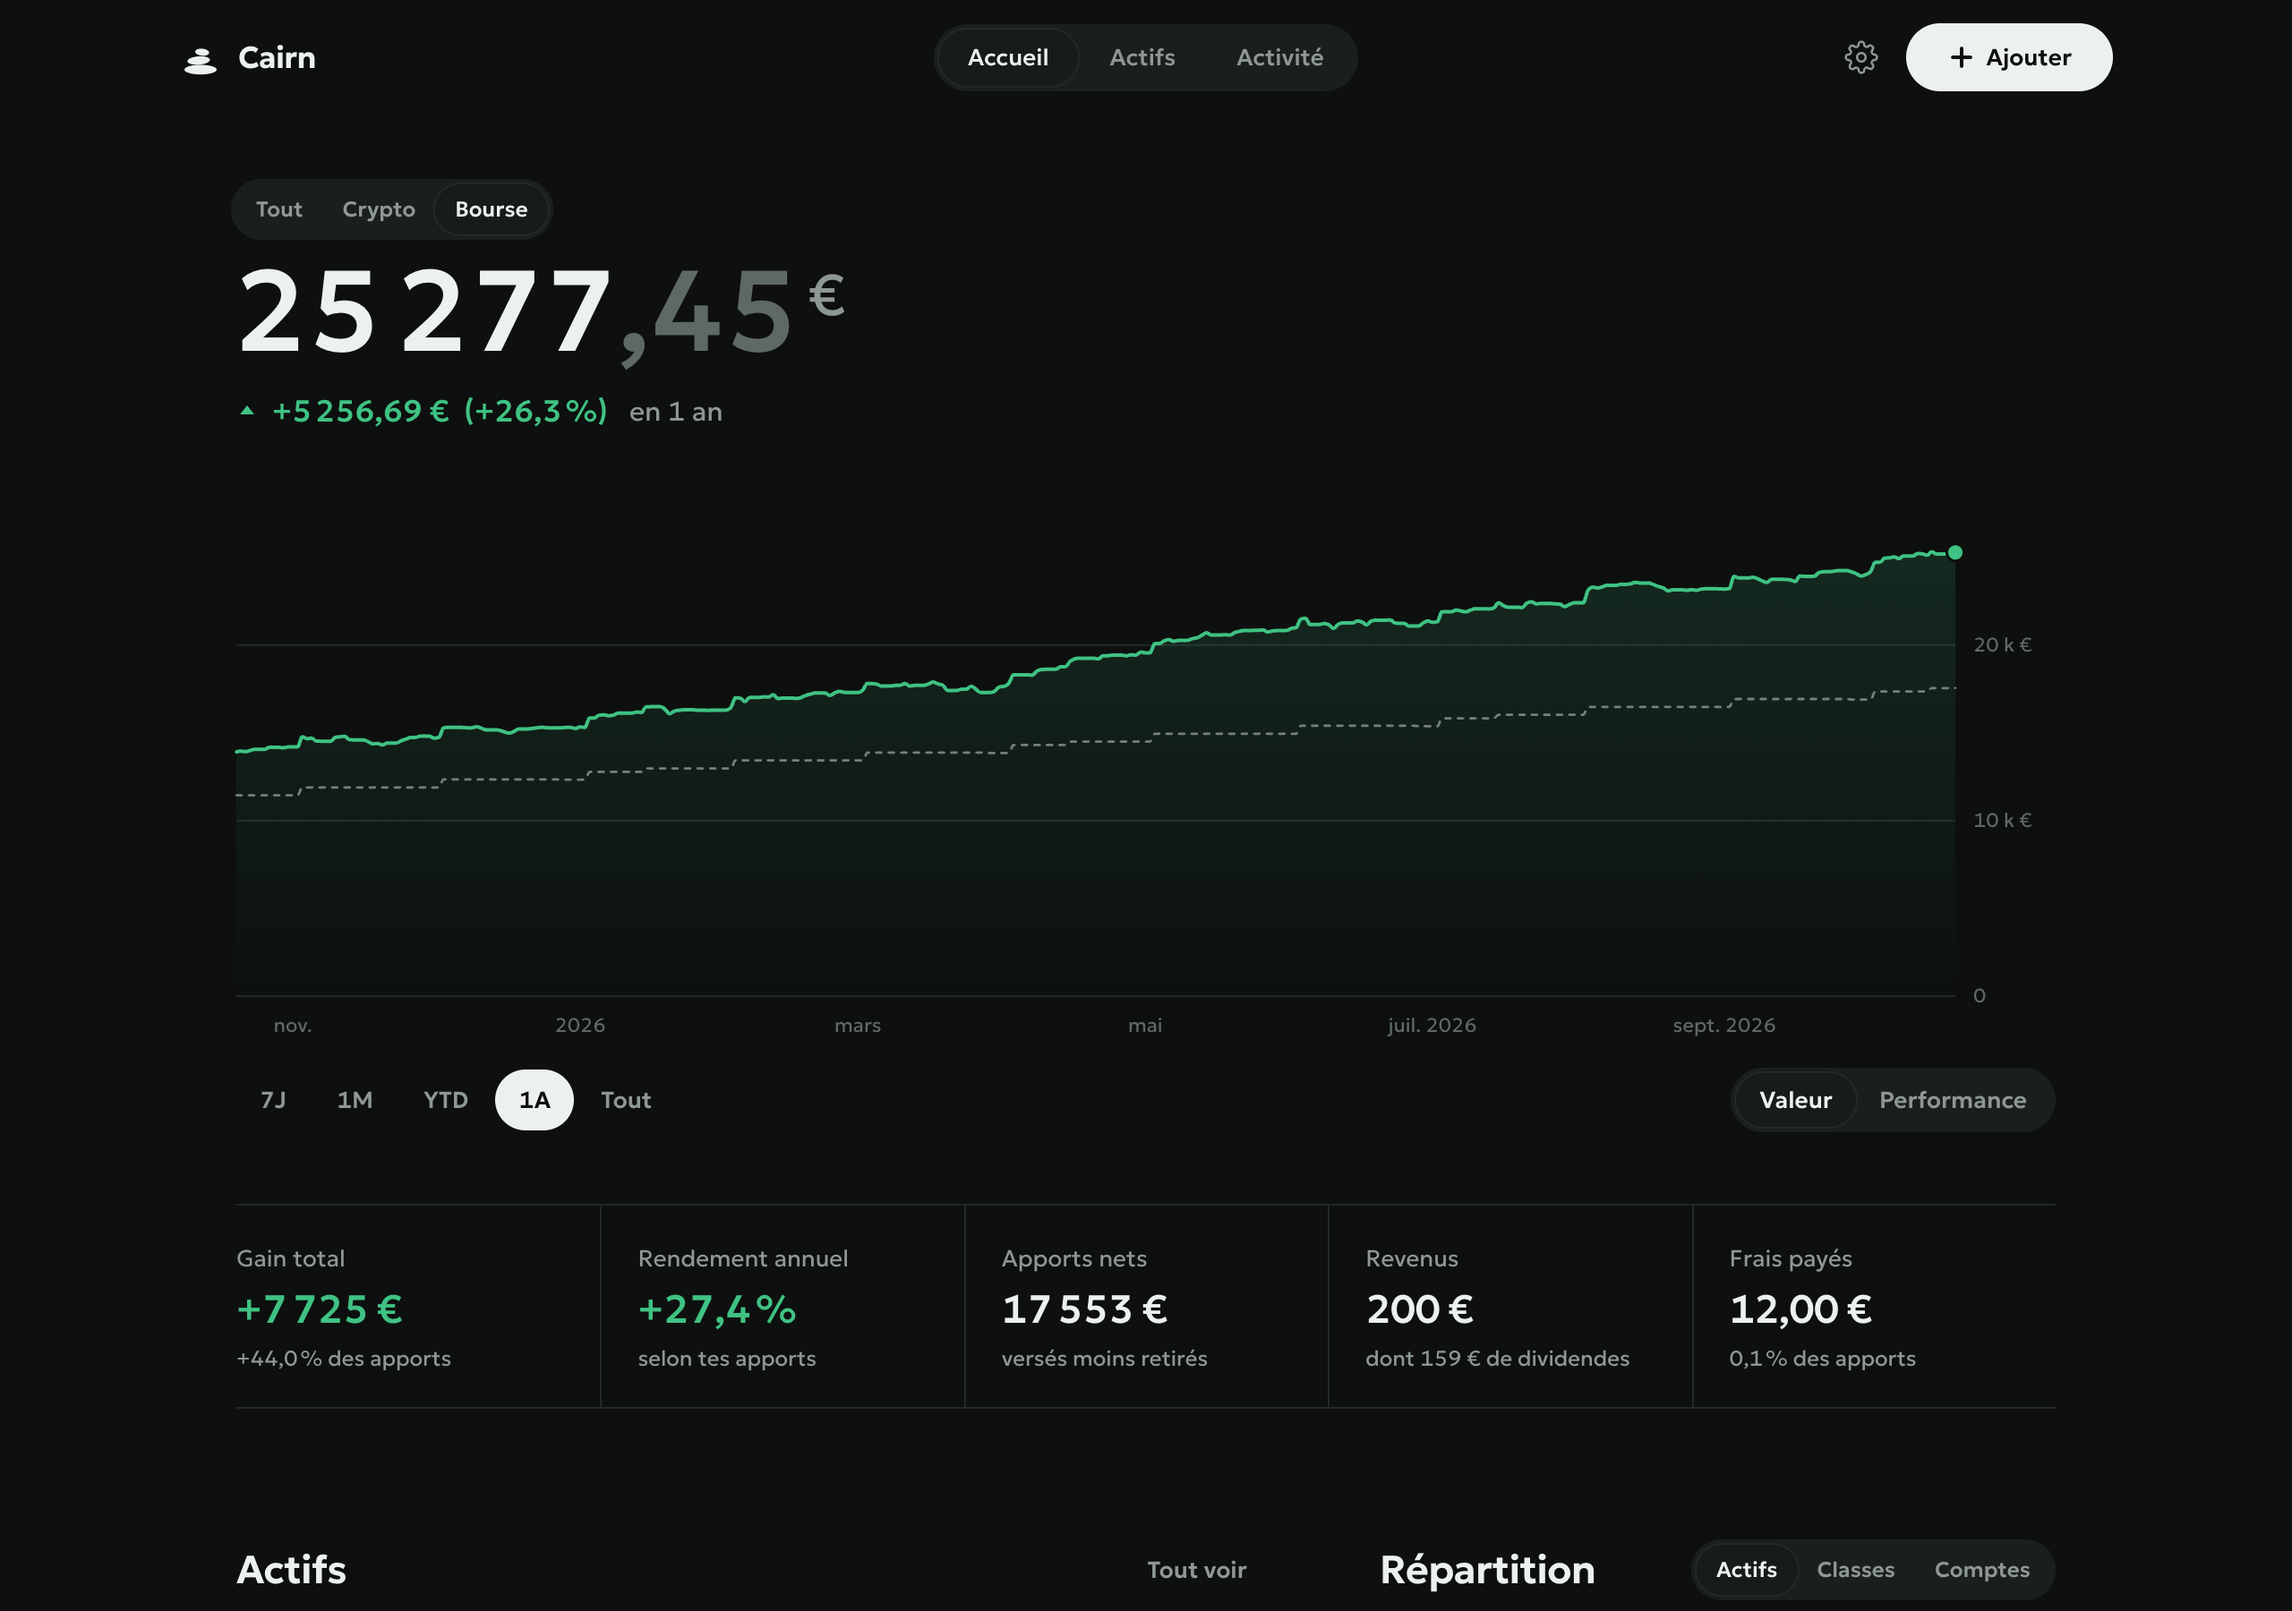
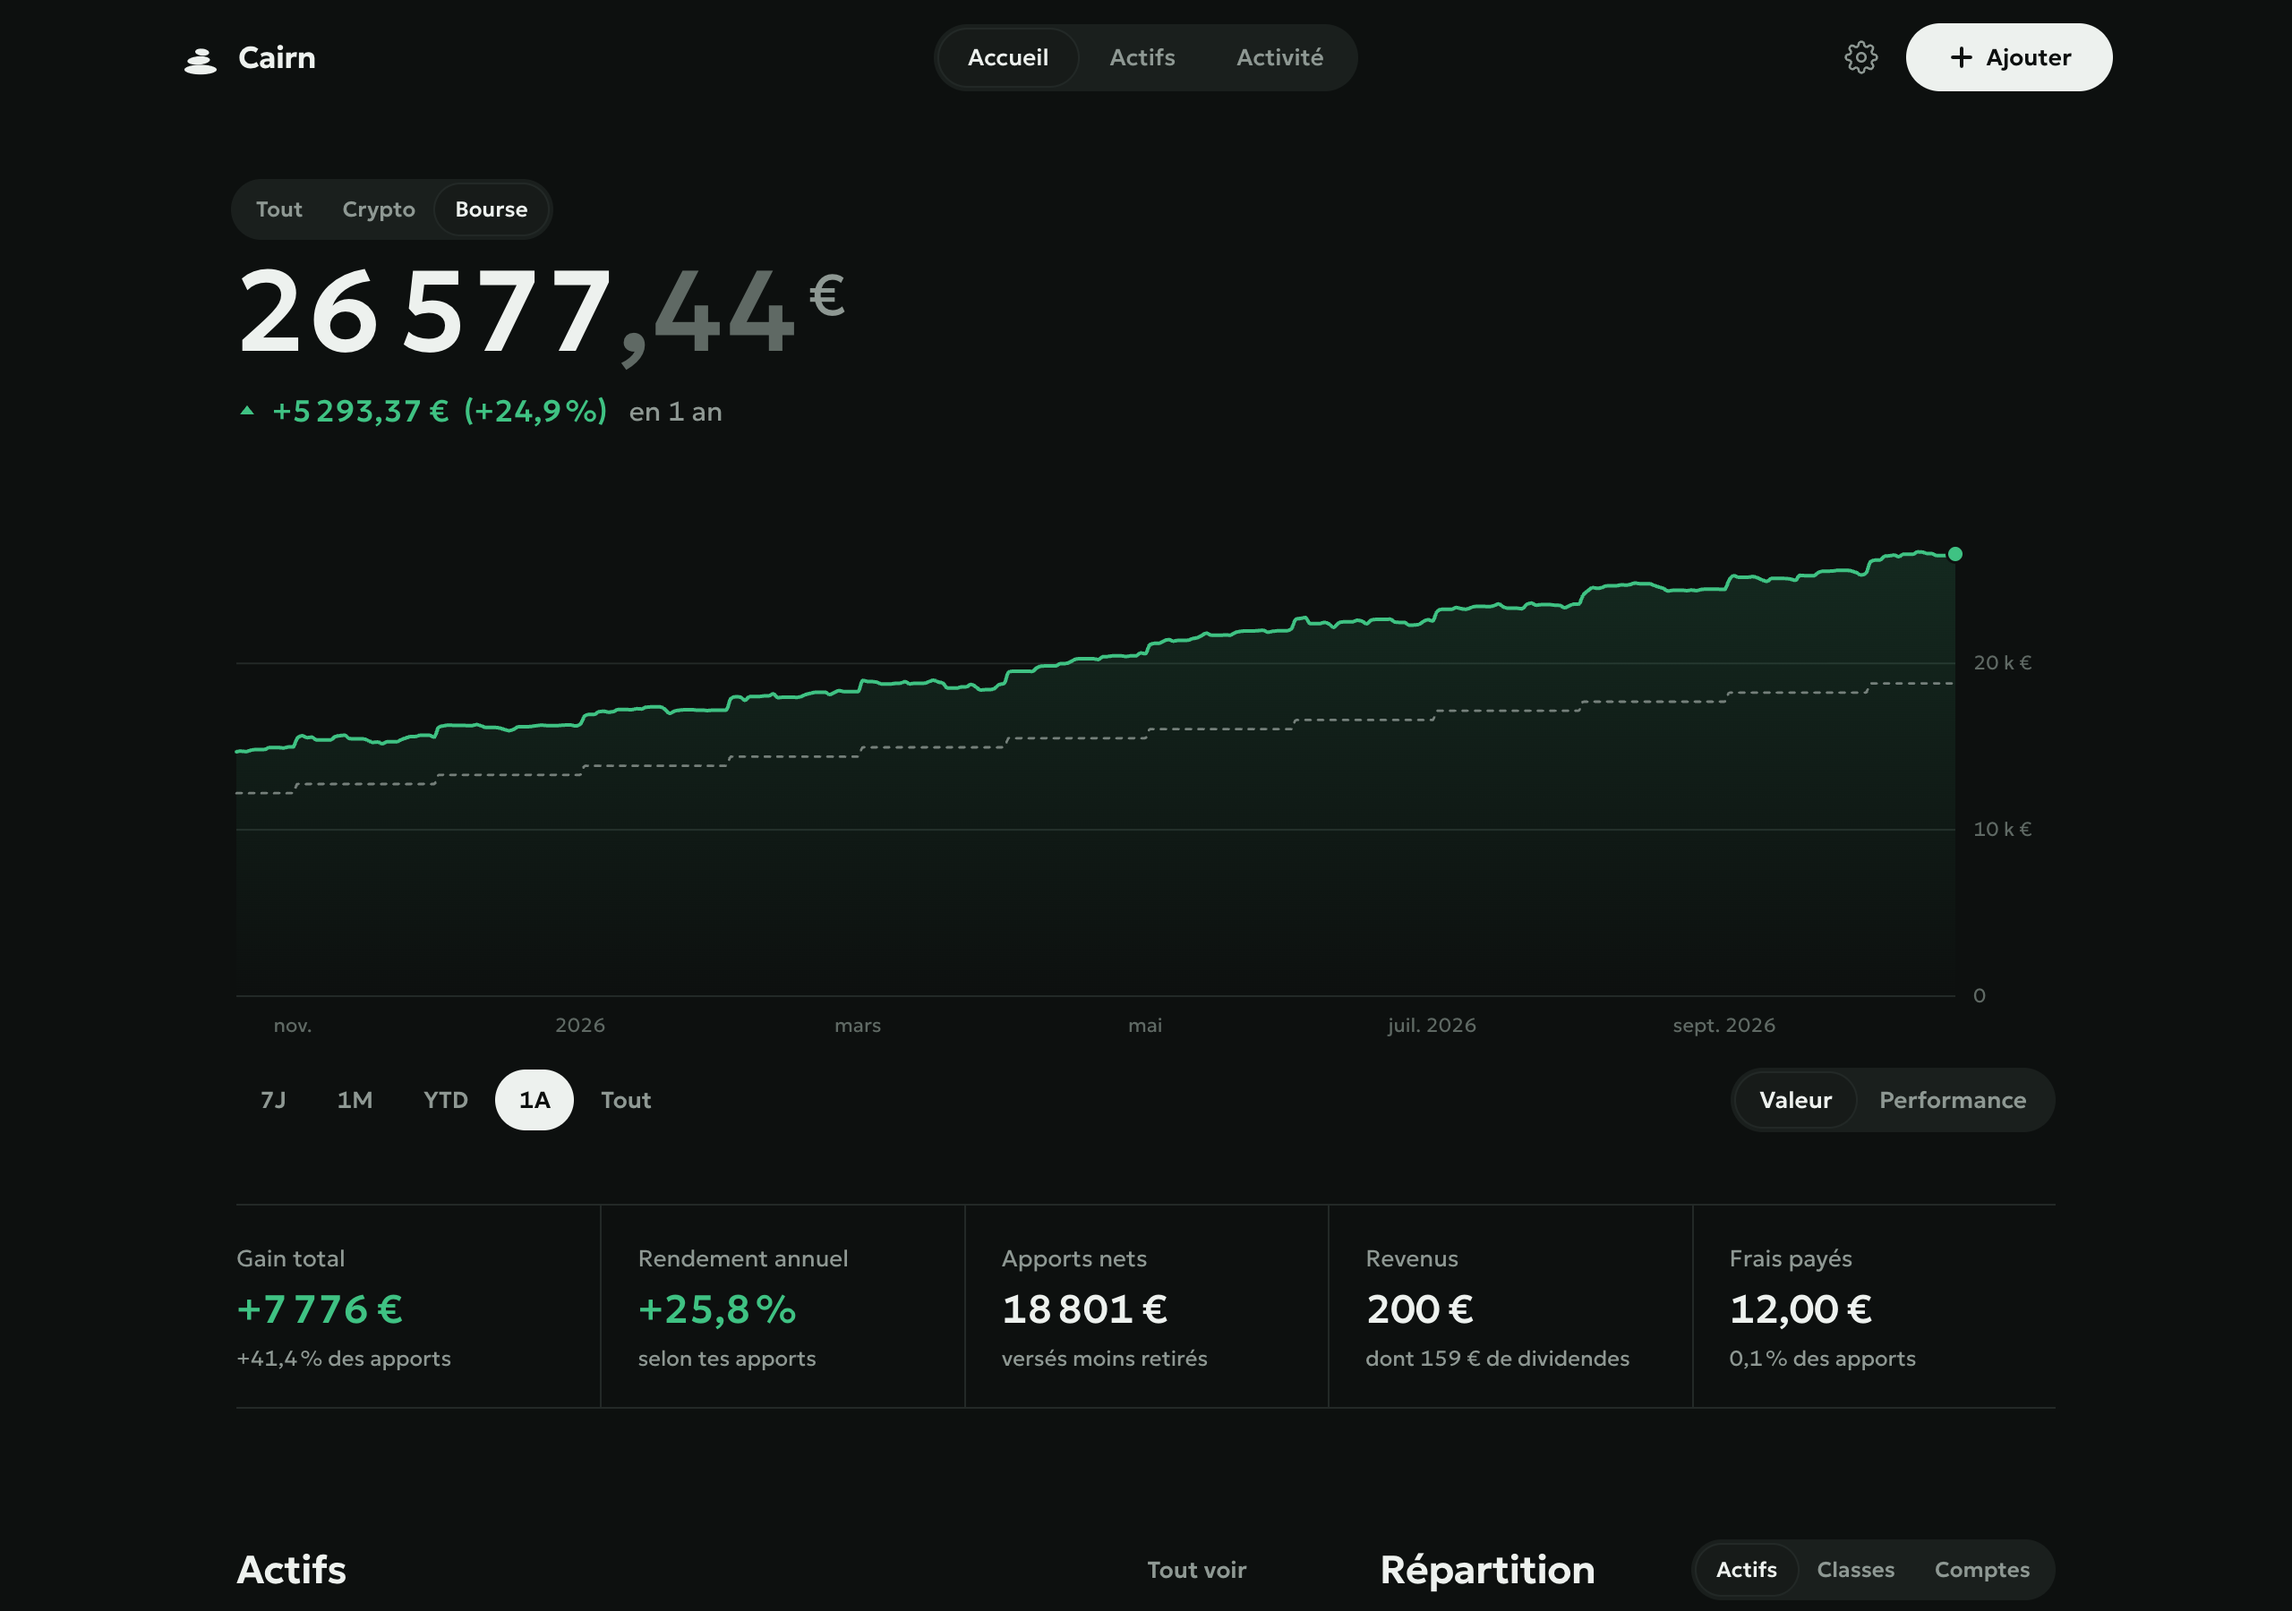
README : comment les chiffres comptent (liquidités, apports par la banque, ajustements à part) ; captures refaites

diff --git a/README.md b/README.md
@@ -4,14 +4,16 @@ Where my investments stand, crypto, stocks and ETFs: what they are worth, what I
 
 ![Accueil](docs/screenshots/accueil-clair.png)
 
-- **Tout, Crypto, Bourse**: one switch above the value (shown when there are both) narrows every figure, chart, list and the activity to crypto alone or to stocks and ETFs alone, and stays on from page to page. Each side is counted as a portfolio of its own: money taken out of crypto by a sale and put into an ETF by a buy is a withdrawal from Crypto and a contribution to Bourse (Tout sees euros leave and come back). Cash-only operations (interest, account fees) go with the class their account trades most; the two sides add up to Tout.
-- **Accueil**: the value and its change over 7J, 1M, YTD, 1A or Tout, in euros and as a share of what was at stake (the opening value plus money put in since); a chart to scrub with a finger (value against money put in, or performance time-weighted so deposits are not gains); gain, yearly return (money-weighted), net contributions, income (staking, dividends, interest), fees; each asset with its month; allocation by asset, by class (crypto, ETF, stocks, stablecoins) or by account.
-- **Statistiques** (on Accueil): monthly returns year by year, money put in each month, cumulative income, what came from contributions, income and the market, gain by asset.
-- **Actifs**: every coin, stock and ETF, held or sold, by name (a security's ISIN is a detail on its page); a long list can be searched and sorted by value, gain or name. One page each: its price with my average cost and my buys and sales, the quantity held, unrealized and realized gain, rewards or dividends, fees, its operations.
+- **Tout, Crypto, Bourse**: one switch above the value (shown when there are both) narrows every figure, chart, list and the activity to crypto alone or to stocks and ETFs alone, and stays on from page to page. Each side is counted as a portfolio of its own, with the cash of its accounts: an exchange's euros go with Crypto, a broker's with Bourse, a manual account with the class it trades most. Euros sent from an exchange to a broker leave Crypto and enter Bourse (Tout sees nothing move); the two sides add up to Tout.
+- **Accueil**: the value and its change over 7J, 1M, YTD, 1A or Tout, in euros and as a share of what was at stake (the opening value plus money put in since); a chart to scrub with a finger (value against money put in, or performance time-weighted so deposits are not gains); gain, yearly return (money-weighted), net contributions, income (staking, dividends, interest), fees; each asset with its month, and the cash; allocation by asset, by class (crypto, ETF, stocks, stablecoins, cash) or by account.
+- **Statistiques** (on Accueil): monthly returns year by year, money put in and taken out each month ("Ce mois-ci : versé 2 000 € · retiré 1 741 € · net +259 €"), cumulative income, what came from contributions, income and the market, gain by asset.
+- **Actifs**: every coin, stock and ETF, held or sold, by name (a security's ISIN is a detail on its page), and each account's cash (Liquidités); a long list can be searched and sorted by value, gain or name. One page each: its price with my average cost and my buys and sales, the quantity held, unrealized and realized gain, rewards or dividends, fees, its operations.
 - **Activité**: every operation by month, by account or asset, searchable by name, loading as you scroll. Add (**N** on a keyboard; from an asset's page, for that asset), change or remove those entered by hand or imported.
 - **Impôts** (a card on Accueil when a declaration has something, and in the footer): one year of crypto disposals as 2086 lines, totals, estimated tax, a CSV to copy into the form. Stocks and ETFs are left out.
 
-**How the figures count.** Cash is not part of the value: euros sitting on an account (Trade Republic's, an exchange's) are outside the portfolio, so a bank transfer in, a card payment or a cash withdrawal changes nothing; money counts as put in when it buys something and as taken out when a sale brings it back. Dividends, net of the tax withheld, come back out the same way, so they are part of the gain, the yearly return and the time-weighted performance. Interest on cash is income too, shown with the rest, but outside the gain (the cash that earns it is not in the value). A broker's accounts from Fundarr stay apart (Trade Republic CTO and PEA).
+**How the figures count.** The portfolio is everything on its accounts, cash included: euros sitting on an exchange or at a broker are part of the value, as Liquidités, worked out from the history (a trade's cash, deposits, withdrawals, fees, interest, dividends). Money counts as put in when it comes from outside (a bank transfer in, a card top-up) and as taken out when it leaves (a bank transfer out, a card payment, a cash withdrawal): selling for euros takes nothing out, the euros stay. Card spending is money taken out, never a loss. Coins received from or sent to a wallet that is not one of the accounts (no matching deposit) count the same way, at their value ("Envoi externe" in Activité). A purchase with no euros on the account before it (typed by hand, without the deposit) was paid from outside: the shortfall is money put in. Dividends and interest stay on the account: income, part of the gain, the yearly return and the time-weighted performance. Stablecoins are crypto.
+
+Fundarr's balance corrections ("Ajustement" in Activité), made when a platform's history does not add up to what it holds, are neither money put in nor gains: performance treats them as external, so they make no gain or loss, and they are shown apart, in one quiet line ("Ajustements Fundarr −2 920 €"). Importing the platform's statement in Fundarr replaces them with the real operations. Everything is computed again from the history, so a new Cairn recounts an old database as it is. A broker's accounts from Fundarr stay apart (Trade Republic CTO and PEA).
 
 One Go binary serves the UI, keeps everything in SQLite (`/data/cairn.db`) and computes the portfolio itself, with [Fundarr](https://github.com/Alexis-Marcel/fundarr)'s engine as a library (average cost per account, transfers carrying their cost, the 2086 method). Daily prices come from Binance and OKX public market data for crypto, justETF (Yahoo Finance as a fallback) for stocks and ETFs by ISIN, and the ECB's rates (through Frankfurter): no key, no account, each day asked once and kept. A security no source knows is valued at its last trade.
 
